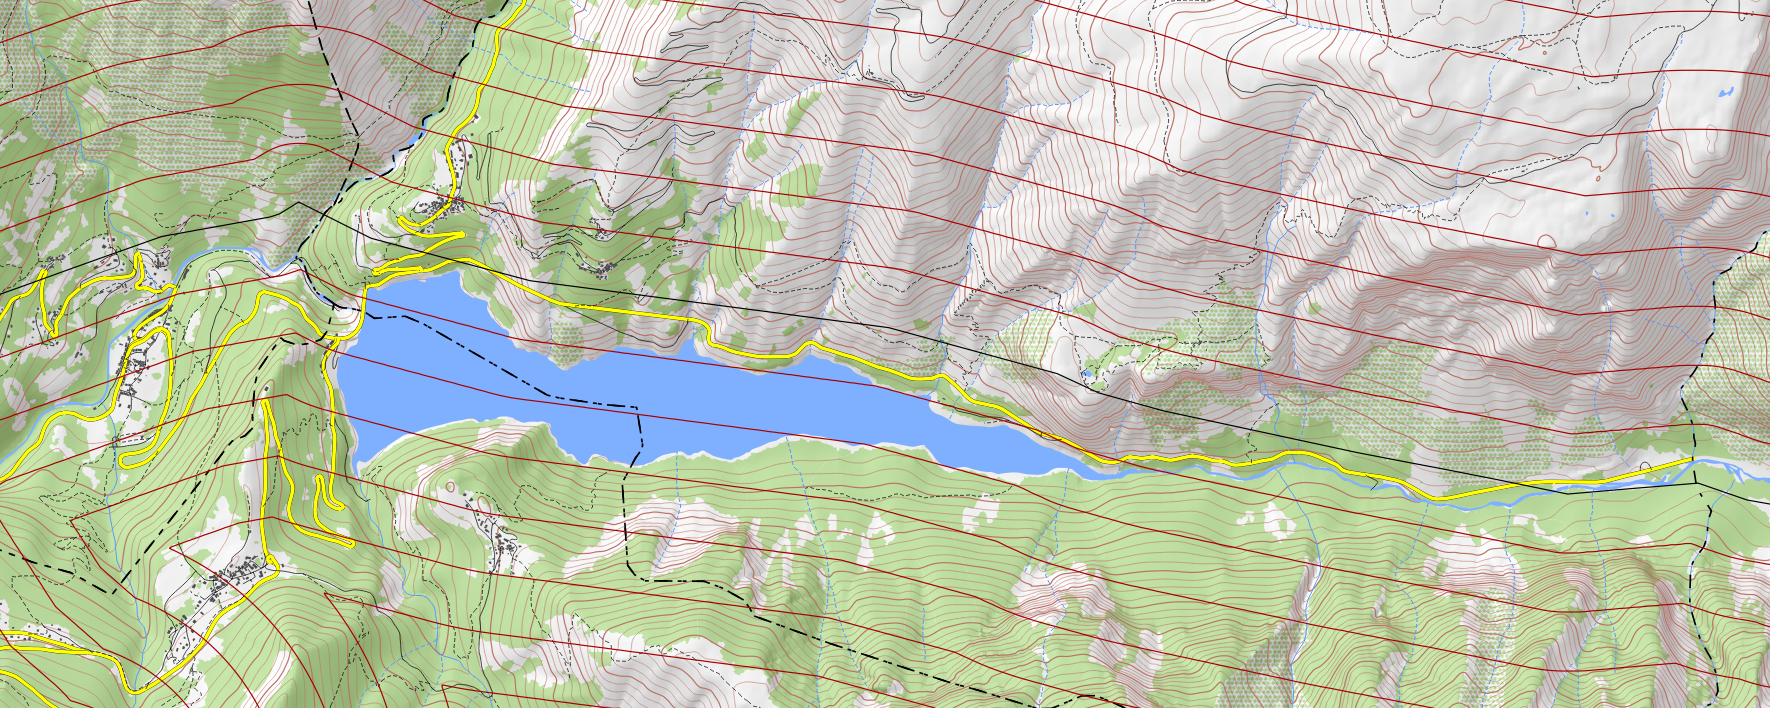
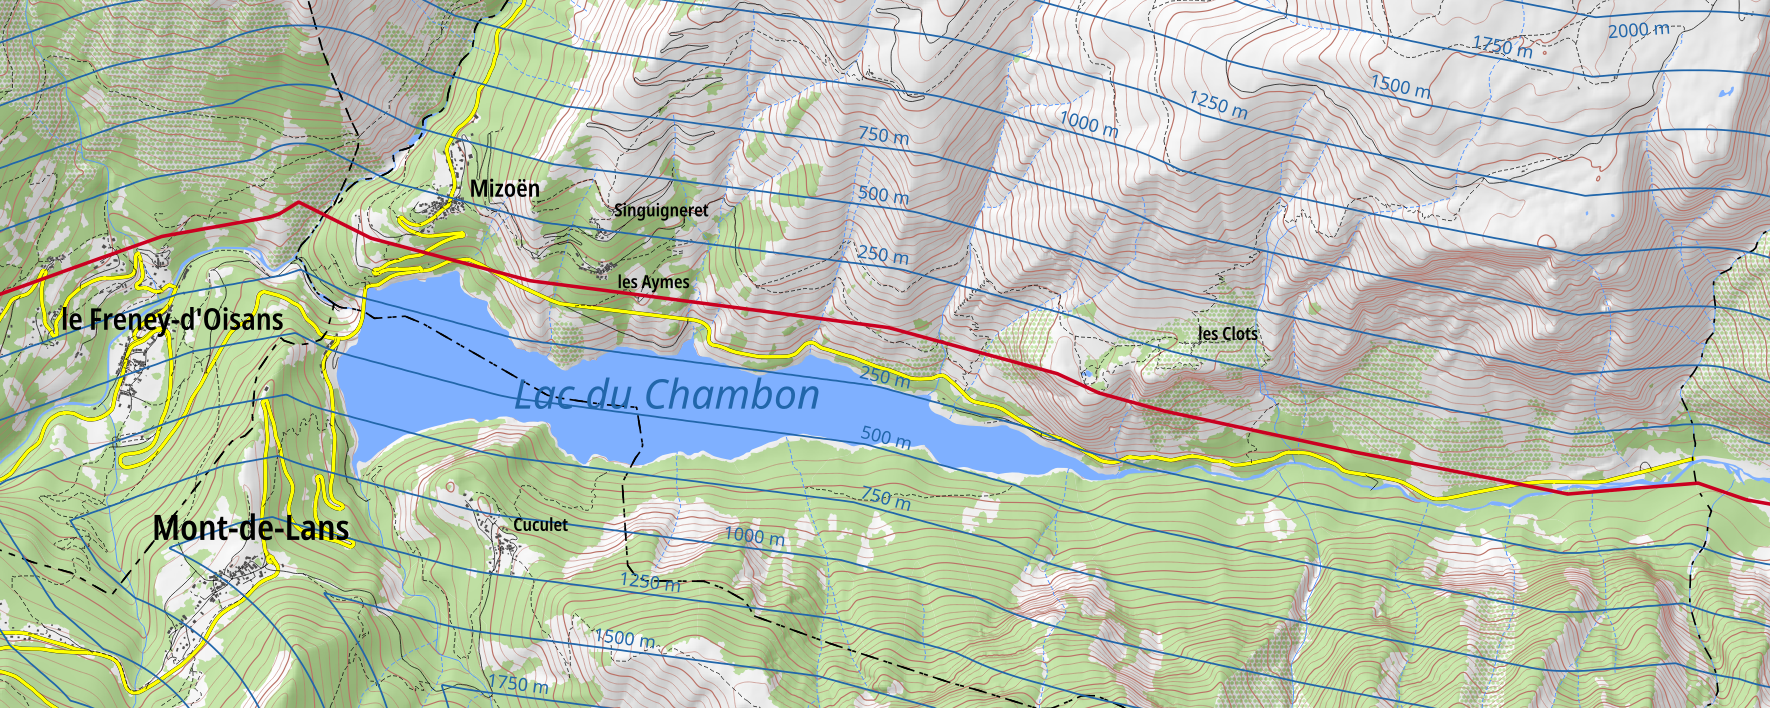
Maj figure 6.3

diff --git a/src/Corps/Partie2/Chapitre6/figures/Raster_ISO_DIST_HT.tex b/src/Corps/Partie2/Chapitre6/figures/Raster_ISO_DIST_HT.tex
@@ -1,11 +1,28 @@
 \begin{tikzpicture}
   \tikzset{et/.style={above,font=\footnotesize\vphantom{Ag}}}
-  %
+  % 
   \node[inner sep=0pt, anchor=south west] (image) at (0,0){\includegraphics{./figures/Raster_ISO_DIST_HT.png}};
-  %
+  % 
   \begin{scope}
     \node (P2) at ([yshift=-.5cm]image.south east) {};
     \node (P1) at ([yshift=-.5cm]image.south west) {};
+
+    \node (rect) [anchor=north west, minimum width=1cm,minimum
+    height=.25cm] at ([yshift=-.25cm]P1) {}; \path[draw=RdBu-9-1, line
+    width=.4mm](rect.west) --([xshift=-1ex]rect.south) -- ([xshift=1ex]rect.north)
+    -- (rect.east);
+    \node[anchor=west, font=\tiny\vphantom{Ag}, text width = 4cm] at
+    ([xshift=1ex]rect.east) {Ligne électrique utilisée comme
+      \emph{objet de référence}};
+
+    \node (rect2) [anchor=north west, minimum width=1cm,minimum
+    height=.25cm] at ([xshift=5.5cm,yshift=-.25cm]P1) {};
+    \path[draw=RdBu-9-9, line width=.25mm](rect2.west)
+    --([xshift=-1ex]rect2.north) -- ([xshift=1ex]rect2.south) --
+    (rect2.east); \node[anchor=west, font=\tiny\vphantom{Ag}, text
+    width = 4cm] at ([xshift=1ex]rect2.east) {Isolignes d'éloignement
+      à \emph{l'objet de référence} (équidistance \SI{250}{\meter})};
+
     % Échelle
     \draw[-] (P2 |- -1cm,-1cm) --++ (-1,0) node[et,pos=.5] {\SI{500}{\meter}};
     % Légende détaillée
